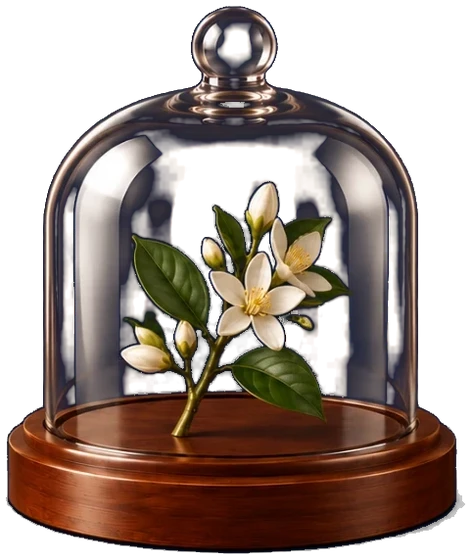
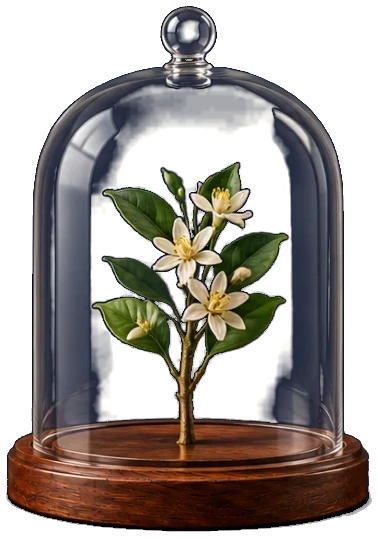
Neue Zitronen-Glocken im neuen Design (1.83.2)

diff --git a/index.html b/index.html
@@ -1674,7 +1674,7 @@ html.theme-biz .icon-default .tb-cover-caption .tb-cover-year, html.theme-biz .t
 
 <script>
 /* Bump on every published update, so it's visible at a glance whether the newest version is loaded. */
-const APP_VERSION = '1.83.1';
+const APP_VERSION = '1.83.2';
 /* Design (since 1.80.0, see the small script in <head>): in "Business" (BIZ) the gold paper icons are swapped for plain line
    icons (img/icons-rl/*.svg) wherever they appear – also in everything drawn later – so the rest of the code stays as it is. */
 const BIZ = window.EW_DESIGN === 'biz';
@@ -1729,7 +1729,7 @@ function ensureBuiltInMeditations(st){
   return st;
 }
 function isBuiltInMeditation(id){ return DEFAULT_MEDITATIONEN.some(m=>m.builtIn && m.id === id); }
-const APP_BUILD = '2026-10-16';
+const APP_BUILD = '2026-10-17';
 /* ================= i18n ================= */
 const I18N = {
   de:{ appName:'eWolfe', navAreas:'Bereiche', areasTitle:'Lebensbereiche', areasIntro:'Dein Lebensrad besteht aus sechs Bereichen. Zusammen zeigen sie dir, wie ausgeglichen dein Leben gerade ist.', areasText:{ gesundheit:'Deine körperliche und mentale Fitness, dein Energielevel, deine Ernährung, dein Schlaf und erholsame Pausen.', beziehungen:'Die Beziehung zu dir selbst, deine Partnerschaft, Familie, Freundschaften und sozialen Kontakte.', finanzen:'Deine finanzielle Sicherheit, deine Rücklagen, dein Konsumverhalten und wie du mit Geld umgehst.', berufung:'Erfüllung im Beruf, Karriere und persönliche Weiterentwicklung – und das Gefühl, etwas Sinnvolles zu tun, statt nur Geld zu verdienen.', sinn:'Innerer Frieden, Achtsamkeit, deine Werte und der Sinn, den du findest – die Verbindung zu dir selbst oder zu etwas Größerem.', freude:'Was dich zum Lachen bringt, Leichtigkeit, Spiel, Hobbys, Genuss und Begeisterung – denn ein Leben in Balance ohne Freude ist nicht viel wert.' }, areasHowTitle:'So erstellst du dein Lebensrad', areasStep1Title:'Bewerten', areasStep1:'Geh die sechs Bereiche nacheinander durch und schieb den Regler auf den Wert von 1 bis 100, der deinen aktuellen Stand am ehrlichsten beschreibt.', areasStep2Title:'Das Ergebnis', areasStep2:'Je runder dein Rad, desto ausgeglichener ist dein Leben. Zacken und Dellen zeigen dir auf einen Blick, wo du gerade Energie verlierst – und wo es sich lohnt anzusetzen.', areasStartFirst:'Erstes Lebensrad erstellen', areasContinue:'Mit vorhandenen Lebensrädern fortfahren', goalsEdit:'Ziele bearbeiten', navGoals:'Ziele', newWheel:'Neues Lebensrad erstellen', goalsTitle:'Ziele', setNotes:'Mitteilungen', noteUpdate:'Es gibt eine neue Version von eWolfe ({v}). Aktualisiere, um sie zu nutzen – deine Daten bleiben erhalten.', noteUpdateBtn:'Jetzt aktualisieren', noteSyncErr:'Die Synchronisation hat nicht geklappt.', noteSyncRetry:'Erneut versuchen', noteNone:'', wheelDelete:'Löschen', wheelDeleteConfirm:'Das Lebensrad vom {date} wirklich löschen? Das kann nicht rückgängig gemacht werden.', tblEvTitle:'Ereignisse im Überblick', tblEvNone:'Noch keine Ereignisse. Tippe im Lebensrad auf einen Bereich, um eines anzulegen.', tblEvHint:'Neueste oben. Tippe auf ein Ereignis, um den Bereich zu öffnen.', navHome:'Lebensrad', navHistory:'Verlauf', navNew:'Bewerten', navDiary:'Tagebuch', navMedi:'Achtsamkeit', accountTitle:'Konto & Einstellungen', settingsTitle:'Einstellungen', setAccount:'Konto & Cloud-Sync', setLang:'Sprache', setBackup:'Backup', setReplay:'Animation abspielen', sceneTitle:'Dein Lebensrad', sceneSub:'Aus dem eWolfe-Zeichen entsteht dein Lebensrad.',
@@ -6239,7 +6239,7 @@ const trophyPh = x=>x.phNote || rlMissing(x);
 const RL_TRO = {
   ex:[['medal-navy', 0.51], ['medal-green', 0.51], ['medal-cognac', 0.51], ['medal-burgundy', 0.51], ['medal-cream', 0.52], ['medal-stripe', 0.51]],
   streak:[['obelisk-1', 0.57], ['obelisk-2', 0.49], ['obelisk-3', 0.41], ['obelisk-4', 0.37], ['obelisk-5', 0.34], ['obelisk-6', 0.31]],
-  box:['cloche-lotus', 0.73], b478:[['cloche-cherry-1', 0.84], ['cloche-cherry-2', 0.85], ['cloche-cherry-3', 0.84]], lemon:[['cloche-lemon-1', 0.84], ['cloche-lemon-2', 0.85], ['cloche-lemon-3', 0.84]],
+  box:['cloche-lotus', 0.73], b478:[['cloche-cherry-1', 0.84], ['cloche-cherry-2', 0.85], ['cloche-cherry-3', 0.84]], lemon:[['cloche-lemon-1', 0.70], ['cloche-lemon-2', 0.70], ['cloche-lemon-3', 0.70]],
   stones:[['cloche-stones-1', 0.83], ['cloche-stones-2', 0.84], ['cloche-stones-3', 0.83]], bowl:[['cloche-bowl-1', 0.84], ['cloche-bowl-2', 0.85], ['cloche-bowl-3', 0.85]], grat:[['cloche-hearts-1', 0.83], ['cloche-hearts-2', 0.83], ['cloche-hearts-3', 0.82]],
   wheel:['ships-wheel', 0.76], goal:['cup-silver', 0.88], page:['books-pen', 1.7], loyal:['pocket-watch', 1.06], joy:['sundial', 0.62],
   up10:['telescope', 1.01], upall:['cup-grand', 0.76], nikolaus:['nikolaus', 0.4], nikolaus2:['boot', 1.05], xmas:['star', 0.73], xmas2:['crib', 1.28]

diff --git a/CLAUDE.md b/CLAUDE.md
@@ -125,7 +125,7 @@ Der Nutzer ist kein Entwickler. Erkläre Schritte einfach und auf Deutsch.
 - Veröffentlicht über **GitHub Pages** aus diesem Repository (Branch `main`, Ordner `/`):
   https://k9vk58y99f-max.github.io/k9vk58y99f-max.github.io-ewolfe-app-/
 - Ein Commit + Push auf `main` ist die Veröffentlichung; nach 1–2 Minuten ist es live.
-- Bei jeder Änderung `APP_VERSION` erhöhen (aktuell `1.83.1`) und `APP_BUILD` anpassen.
+- Bei jeder Änderung `APP_VERSION` erhöhen (aktuell `1.83.2`) und `APP_BUILD` anpassen.
   Die Version steht unten in der App.
 
 ## Neu seit 1.55.0 (iPad, Wischen, Tagebuch, Sticker, Impulskarten)
@@ -353,6 +353,7 @@ Vor jedem Push: Syntax prüfen und die betroffenen Abläufe testen. Daten des Nu
   neue Vitrine `vitrine-slim.webp` mit fünf Glasfächern. Tiere/Schmuck neu platziert (`html:not(.theme-biz) .shelf-…`).
   Staub-Regal jetzt die ersten zwei aktiven Tage (`appActiveDays() < 3`).
 - **A Gentleman's Study:** Hund deutlich größer vor dem Regal (`.shelf-dog` height 34 %).
+- Seit 1.83.2: neue Zitronen-Glocken (Zitronenzweig: Blüten → grüne Frucht → gelbe Zitrone), schmaler (Seitenverhältnis 0,70). Übungsbilder für die Achtsamkeit (Lotus, Kirschzweig, Zitrone, Steine, Herzen, Klangschale, Glocke, Decke) liegen im Sammelordner unter „Originale ChatGPT/Achtsamkeit“, noch nicht eingebaut.
 
 ## Sechster Bereich „Freude“ (seit 1.77.0)
 - `AREAS` hat jetzt sechs Einträge, `freude` als letzter (Symbol `img/icons/ico-freude.webp`, gefaltete Goldsonne). Das Rad ist
